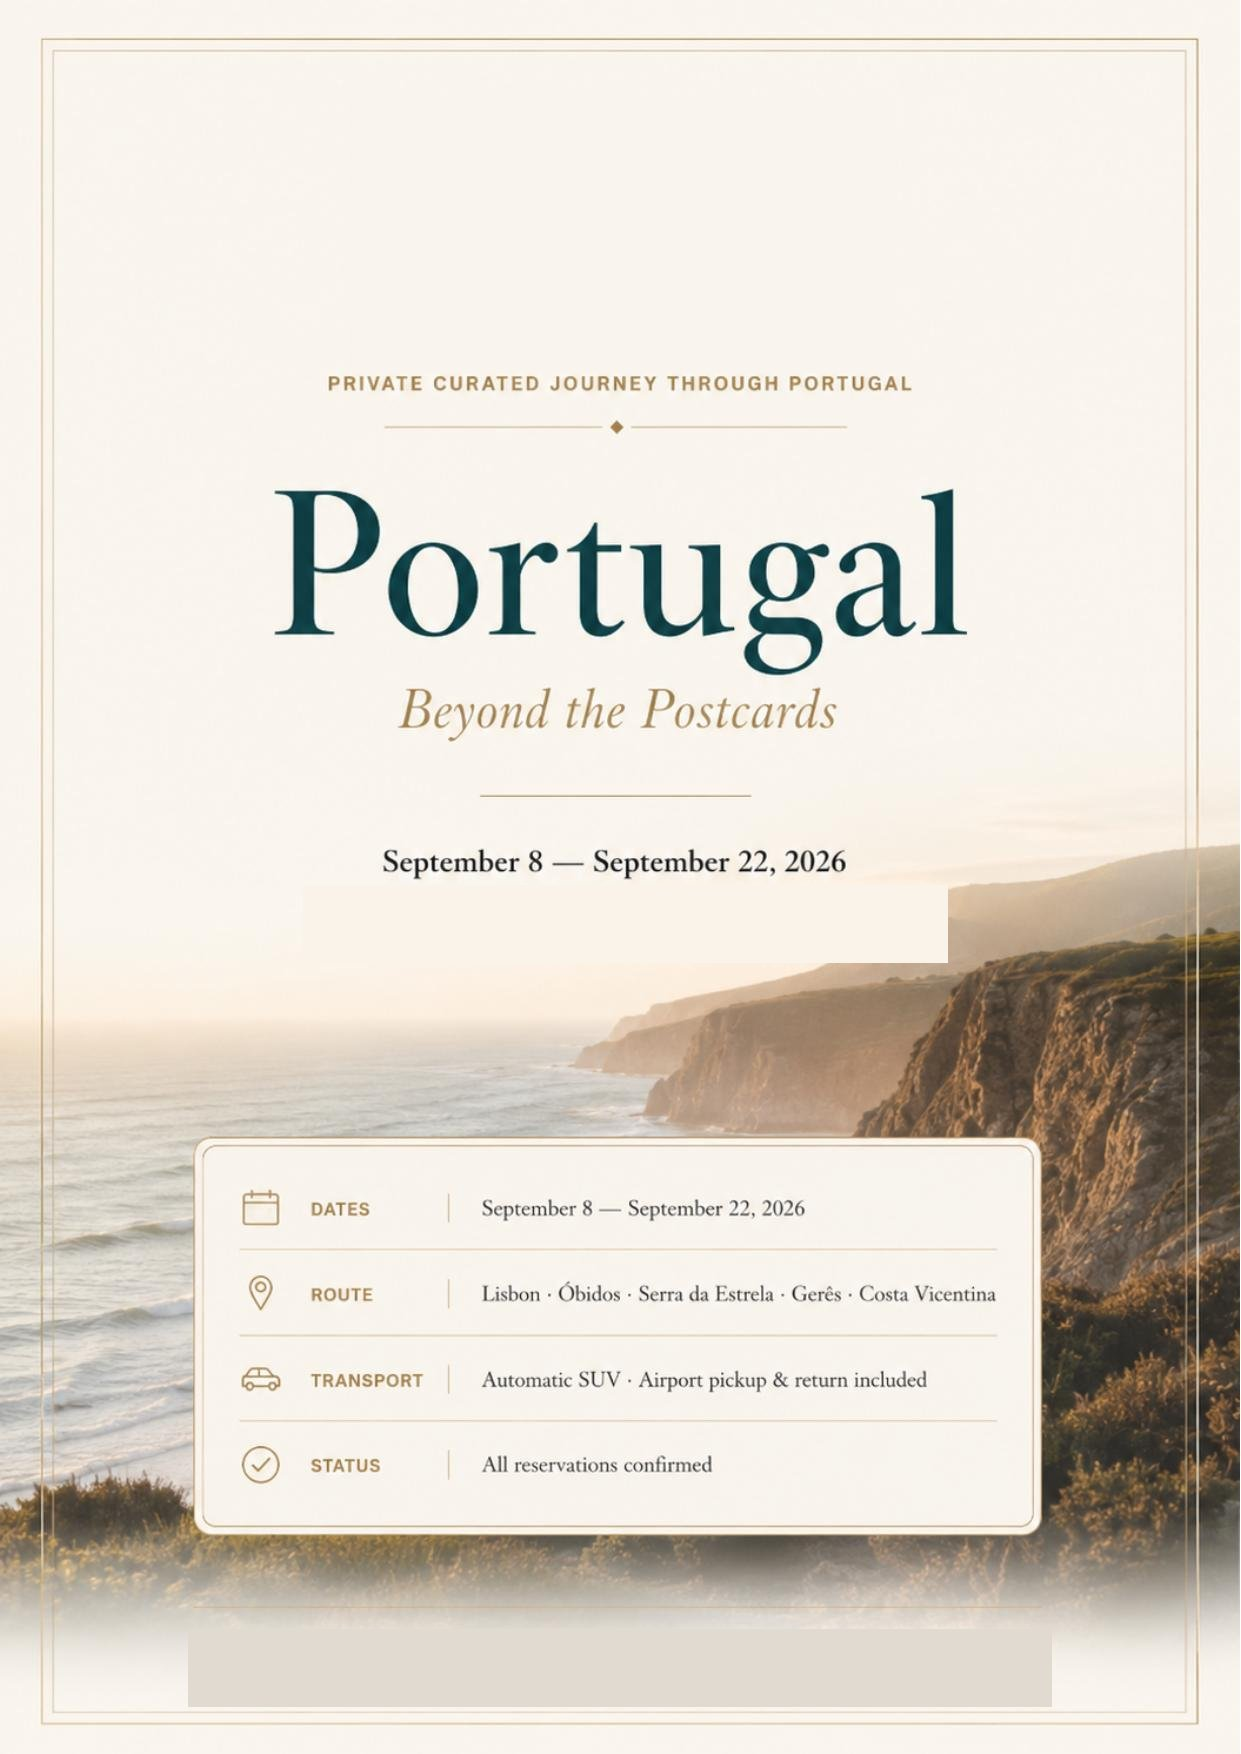
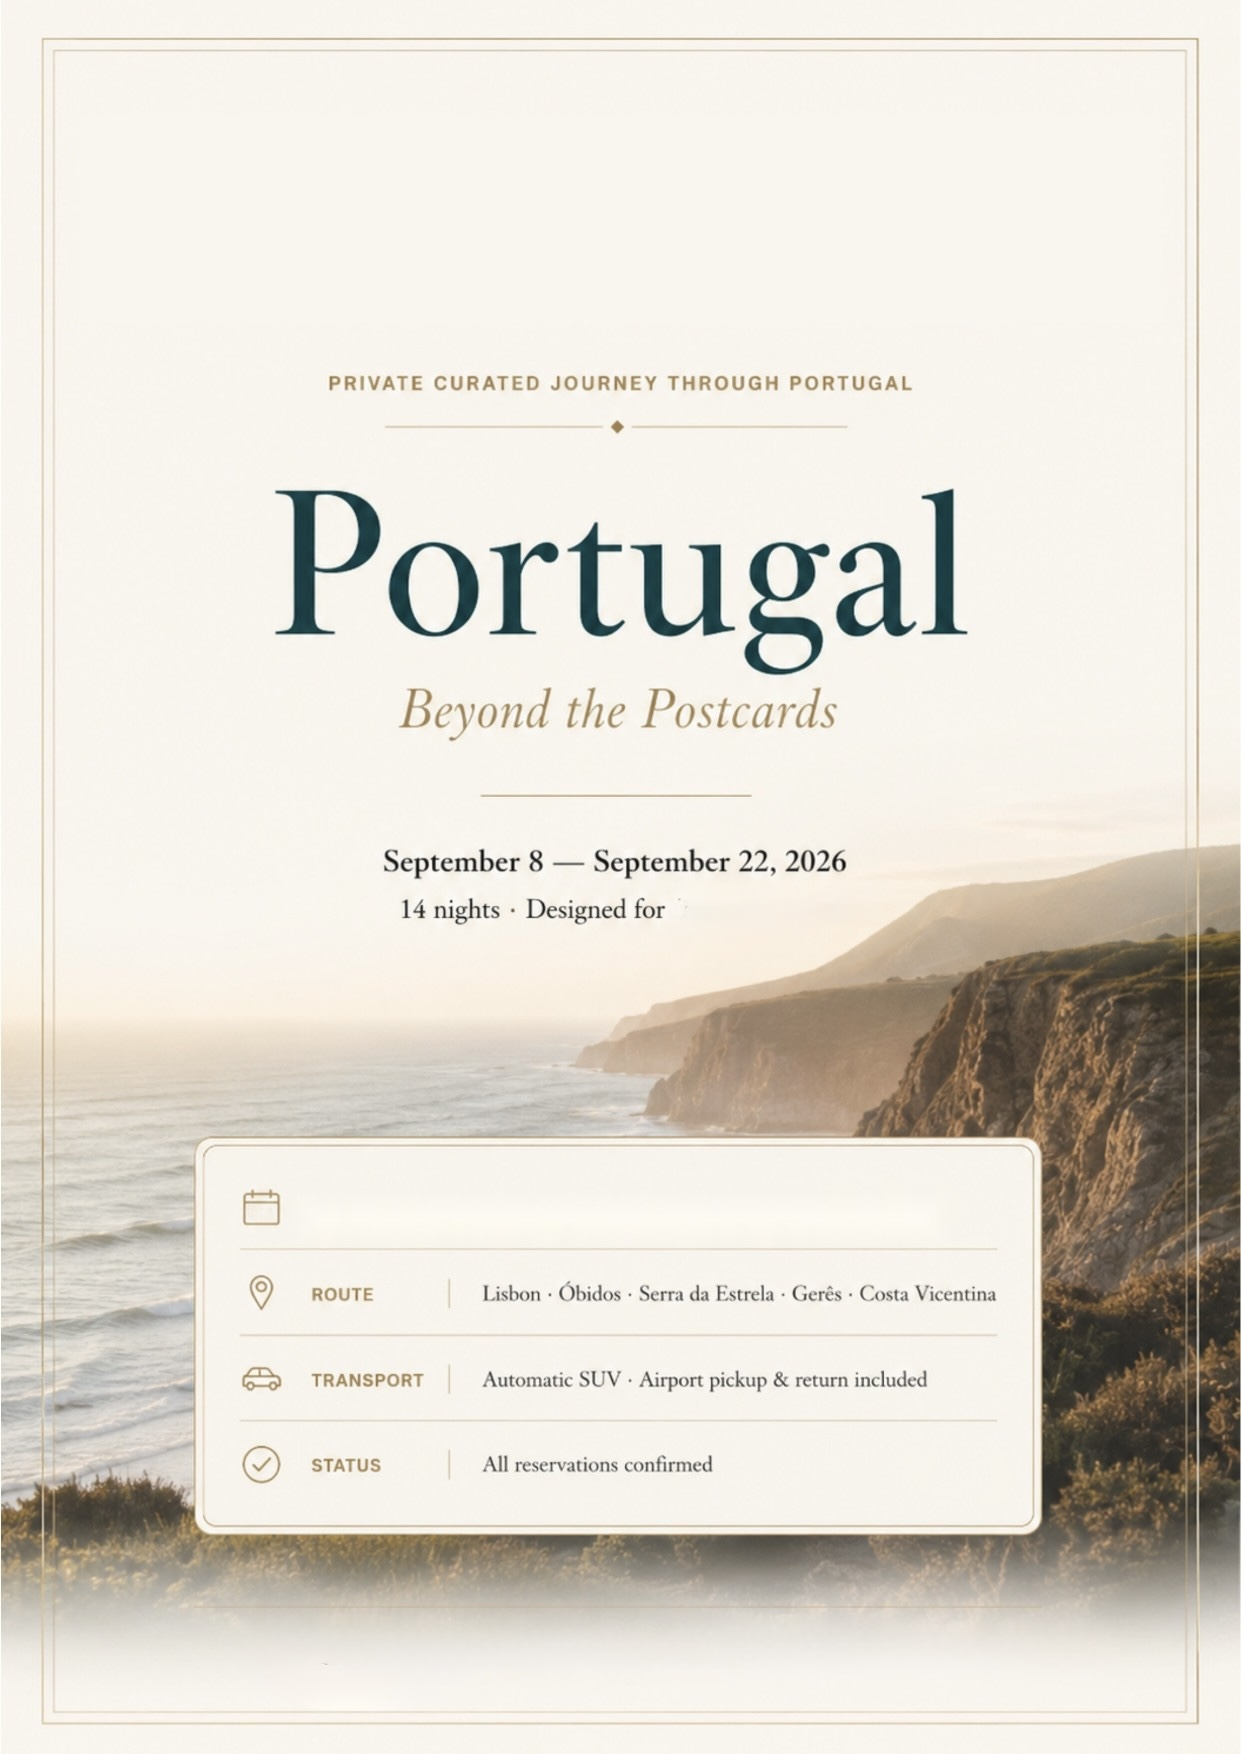
Changes

diff --git a/.lovable/plan.md b/.lovable/plan.md
@@ -1,44 +1,14 @@
-## Goal
+## Plan
 
-&nbsp;
+Replace `public/travel-file-sample/page-01.jpg` with the uploaded image (`user-uploads://IMG_6215-2.jpeg`) — the already-redacted cover the user prepared on their phone (logo removed, guest name blanked, dates line clean).
 
-Premmium look 
+### Steps
 
-Match what you did on your phone: cover personal info with plain color patches, show **all 23 pages** on the site as clickable, zoomable thumbnails, and **remove the "Open the full PDF" button** entirely.
+1. Copy `user-uploads://IMG_6215-2.jpeg` to `public/travel-file-sample/page-01.jpg` (overwrite).
+2. Leave pages 2–23 untouched.
+3. Leave the redaction script and gallery components unchanged — no code edits needed.
 
-## 1. Redaction script — simplified
+### Notes
 
-Rewrite `scripts/clean-travel-file-sample.py` to stop reconstructing anything. For each area, just paint a solid rectangle in the surrounding background color (ivory on light pages, teal on dark pages). No inpainting, no OpenCV, no pasted gradient strips.
-
-Areas covered on every page:
-
-- YES logo (top of cover, top-left header on interior pages, wordmark on back page)
-- Guest name (after "Designed for" on cover; anywhere else it appears)
-- Email address (wherever it appears)
-- Website URL (wherever it appears)
-- Phone number if present
-
-Same technique you used: sample the surrounding background color, drop a rectangle over the personal detail, leave everything else untouched (dates, itinerary, photos, layout — all preserved).
-
-## 2. Regenerate all page previews
-
-Rasterize the cleaned 23-page PDF to `public/travel-file-sample/page-01.jpg` … `page-23.jpg` at readable resolution. Delete `sample.pdf` from `public/` since it's no longer linked.
-
-## 3. Inline gallery — all 23 pages
-
-Update `src/components/home/RecentJourney.tsx` and `src/routes/multi-day.tsx`:
-
-- Replace the 6-page flip-book with a scrollable/grid gallery of all 23 pages.
-- Each page is a tappable thumbnail.
-- Tap opens the existing full-screen lightbox at that page.
-- Lightbox gets prev/next arrows + swipe to move through all 23.
-- **Remove** the "Open the full 15-day PDF" / "Open Sample Travel File" buttons and their handlers.
-- Remove `samplePdfUrl` / `samplePdf` constants.
-
-## 4. Technical notes
-
-- Script uses `pypdf` + `Pillow` only (no cv2). Coordinates measured against the original 23-page PDF, applied once per run against the untouched original — never re-stacked on prior output.
-- Gallery keeps current editorial styling (ivory frame, gold rule, Fraunces eyebrow). Mobile: single column of full-width page cards. Desktop: 3-up grid.
-- Lightbox reuses existing `PageLightbox`, extended with `index` state and keyboard/swipe navigation across all 23 pages.
-
-No other pages, copy, or brand tokens change.
+- The gallery in `RecentJourney.tsx` and `multi-day.tsx` already references `page-01.jpg`, so the new cover will show up immediately.
+- Aspect ratio of the upload (~1240×1755, ≈1:1.41) matches the other page JPGs, so no layout change is required.
